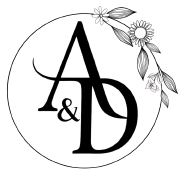
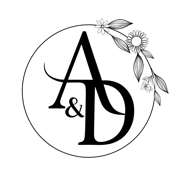
Form depends on the language

diff --git a/public/i18n.js b/public/i18n.js
@@ -21,7 +21,7 @@ window.TRANSLATIONS = {
     'calendar.details': 'Llegada 12:30 · Ceremonia 13:00 · Cóctel 14:00 · Banquete 15:30 · Fiesta 18:00',
 
     'welcome.title': 'Bienvenidos',
-    'welcome.text': 'Bienvenidos a la web de nuestra boda. Nos hace mucha ilusión poder compartir con vosotros este momento tan importante en nuestras vidas. Aquí encontraréis toda la información necesaria para el gran día. Esperamos veros a todos allí y que os hagamos sentir como en casa.',
+    'welcome.text': 'Nos hace mucha ilusión poder compartir con vosotros este momento tan importante en nuestras vidas. Aquí encontraréis toda la información necesaria para el gran día.\n\nEsperamos veros a todos allí y que os hagamos sentir como en casa.',
     'welcome.signature': 'Anna y David',
 
     'program.title': 'Programa',
@@ -34,7 +34,7 @@ window.TRANSLATIONS = {
     'venue.text': 'Ceremonia y celebración en el mismo lugar.\nNos enamoramos de la finca nada más verla y estamos deseando veros a todos allí.',
     'venue.directions': 'Cómo llegar',
 
-    'dresscode.text': 'Guapos, cómodos y con ganas de fiesta hasta el final. Chicas, solo os pedimos dos cosas: vestidos que enseñen los zapatos para darlo todo bailando, y dejad el blanco y colores similares únicamente para la novia.',
+    'dresscode.text': 'Guapos, cómodos y con ganas de fiesta hasta el final. Chicas, solo os pedimos dos cosas: vestidos que enseñen los zapatos para darlo todo bailando, y que dejéis el blanco y colores similares únicamente para la novia.',
 
     'gift.title': 'Regalos',
     'gift.text': 'Vuestra presencia es nuestro mayor regalo.\nAun así, si deseáis hacernos un detalle para comenzar esta nueva etapa, os dejamos nuestro número de cuenta.\nPor favor, indicad vuestro nombre completo en el concepto para poder agradecéroslo.',
@@ -43,7 +43,7 @@ window.TRANSLATIONS = {
 
     'rsvp.title': 'Confirma tu asistencia',
     'rsvp.note': 'Confírmanos tu asistencia antes del 1 de marzo de 2027.',
-    'rsvp.contact': 'Si tenéis cualquier duda, no dudéis en contactarnos.',
+    'rsvp.contact': 'Si tienes cualquier duda, no dudes en contactarnos.',
     'rsvp.closing': '¡Te esperamos!',
     'rsvp.button': 'Formulario de asistencia',
 
@@ -53,7 +53,7 @@ window.TRANSLATIONS = {
   de: {
     'meta.title': 'Anna & David',
 
-    'nav.rsvp': 'Formular',
+    'nav.rsvp': 'Rückmeldung',
 
     'hero.title': 'Anna und David',
     'hero.alt': 'Aquarell der Finca Meu Lar',
@@ -70,7 +70,7 @@ window.TRANSLATIONS = {
     'calendar.details': 'Empfang 12:30 · Trauung 13:00 · Sektempfang 14:00 · Hochzeitsessen 15:30 · Hochzeitsparty 18:00',
 
     'welcome.title': 'Willkommen',
-    'welcome.text': 'Willkommen auf unserer Hochzeitswebsite. Wir freuen uns sehr, diesen so wichtigen Moment in unserem Leben mit euch zu teilen. Hier findet ihr alle wichtigen Informationen für den großen Tag. Wir hoffen, euch alle dort zu sehen und dass ihr euch wie zu Hause fühlt.',
+    'welcome.text': 'Wir freuen uns sehr, diesen so wichtigen Moment in unserem Leben mit euch zu teilen. Hier findet ihr alle wichtigen Informationen für den großen Tag.\n\nWir hoffen, euch alle dort zu sehen und dass ihr euch wie zu Hause fühlt.',
     'welcome.signature': 'Anna und David',
 
     'program.title': 'Tagesablauf',
@@ -86,23 +86,23 @@ window.TRANSLATIONS = {
     'dresscode.text': 'Schick, bequem und mit Lust, bis zum Schluss zu feiern. Mädels, wir bitten euch nur um zwei Dinge: Kleider, bei denen man die Schuhe sieht, damit ihr beim Tanzen alles geben könnt – und Weiß und ähnliche Farben bitte nur der Braut überlassen.',
 
     'gift.title': 'Geschenke',
-    'gift.text': 'Eure Anwesenheit ist unser größtes Geschenk.\nWer uns dennoch eine Kleinigkeit für den Start in diesen neuen Lebensabschnitt schenken möchte, findet hier unsere Bankverbindung.\nBitte gebt im Verwendungszweck euren vollständigen Namen an, damit wir uns bei euch bedanken können.',
+    'gift.text': 'Eure Anwesenheit ist für uns das schönste Geschenk.\nWer uns dennoch eine kleine Freude für unseren gemeinsamen Lebensweg machen möchte, findet hier unsere Bankverbindung.\nDamit wir uns bei euch bedanken können, gebt bei der Überweisung bitte einfach euren Namen an.',
     'gift.copy': 'IBAN kopieren',
     'gift.copied': 'Kopiert!',
 
     'rsvp.title': 'Wir bitten um Rückmeldung',
     'rsvp.note': 'Bitte gebt uns bis zum 1. März 2027 Bescheid, ob ihr dabei seid.',
     'rsvp.contact': 'Wenn ihr Fragen habt, meldet euch gerne jederzeit bei uns!',
-    'rsvp.closing': 'Wir freuen uns auf dich!',
-    'rsvp.button': 'Anmeldeformular',
+    'rsvp.closing': 'Wir freuen uns auf euch!',
+    'rsvp.button': 'Gebt uns Bescheid',
 
-    'footer.love': 'Mit Liebe und vielen Stunden Aquarellmalerei gemacht',
+    'footer.love': 'Mit Liebe und in vielen Stunden mit Wasserfarben gestaltet.',
   },
 
   en: {
     'meta.title': 'Anna & David',
 
-    'nav.rsvp': 'Form',
+    'nav.rsvp': 'RSVP',
 
     'hero.title': 'Anna and David',
     'hero.alt': 'Watercolour of Finca Meu Lar',
@@ -119,7 +119,7 @@ window.TRANSLATIONS = {
     'calendar.details': 'Arrival 12:30 · Ceremony 13:00 · Drinks Reception 14:00 · Wedding Banquet 15:30 · Party 18:00',
 
     'welcome.title': 'Welcome',
-    'welcome.text': 'Welcome to our wedding website. We are thrilled to share such an important moment in our lives with you. Here you will find all the information you need for the big day. We hope to see you all there and make you feel right at home.',
+    'welcome.text': 'We are thrilled to share such an important moment in our lives with you. Here you will find all the information you need for the big day.\n\nWe hope to see you all there and make you feel right at home.',
     'welcome.signature': 'Anna and David',
 
     'program.title': 'Schedule',

diff --git a/public/index.html b/public/index.html
@@ -5,8 +5,8 @@
   <meta name="viewport" content="width=device-width, initial-scale=1">
   <title>Anna &amp; David</title>
   <meta name="description" content="Anna & David · 8 de mayo de 2027 · Finca Meu Lar, Alicante">
-  <link rel="icon" type="image/png" sizes="32x32" href="favicon-32.png">
-  <link rel="apple-touch-icon" href="apple-touch-icon.png">
+  <link rel="icon" type="image/png" sizes="64x64" href="favicon-32.png?v=2">
+  <link rel="apple-touch-icon" href="apple-touch-icon.png?v=2">
 
   <!-- Vista previa al compartir el enlace (WhatsApp, Telegram, redes...). La imagen necesita URL absoluta. -->
   <meta property="og:type" content="website">
@@ -127,7 +127,7 @@
       </figure>
       <div class="welcome__text">
         <h2><span class="title-img title-img--welcome" aria-hidden="true"></span><span class="sr-only" data-i18n="welcome.title">Bienvenidos</span></h2>
-        <p data-i18n="welcome.text">Bienvenidos a la web de nuestra boda.</p>
+        <p data-i18n="welcome.text">Nos hace mucha ilusión poder compartir con vosotros este momento tan importante en nuestras vidas.</p>
         <p class="welcome__signature" data-i18n="welcome.signature">Anna y David</p>
       </div>
     </section>
@@ -249,7 +249,7 @@
           <p class="rsvp__deadline" data-i18n="rsvp.note">Confírmanos tu asistencia antes del 1 de marzo de 2027.</p>
           <!-- Los números abren un chat de WhatsApp (wa.me, con prefijo 34: funciona también desde Alemania) -->
           <p class="rsvp__contact">
-            <span data-i18n="rsvp.contact">Si tenéis cualquier duda, no dudéis en contactarnos.</span>
+            <span data-i18n="rsvp.contact">Si tienes cualquier duda, no dudes en contactarnos.</span>
             <span class="rsvp__phones">
               <span>Anna: <a href="https://wa.me/34678361597" target="_blank" rel="noopener">678 361 597</a></span>
               <span>David: <a href="https://wa.me/34695811434" target="_blank" rel="noopener">695 811 434</a></span>

diff --git a/public/styles.css b/public/styles.css
@@ -362,7 +362,7 @@ html[lang="de"] .title-img--rsvp { --img: url(img/titulo-confirma-de.png); --ar:
 
 /* Bienvenida */
 .welcome { display: grid; grid-template-columns: 1fr 1fr; gap: clamp(2rem, 6vw, 5rem); align-items: center; }
-.welcome__text p { font-size: 1.12rem; color: #344446; }
+.welcome__text p { white-space: pre-line; font-size: 1.12rem; color: #344446; }
 /* Firma al final del texto de bienvenida, como en una carta */
 .welcome__text .welcome__signature { margin-top: 1.2rem; font-size: 1.3rem; color: var(--teal); text-align: right; }
 .polaroid {
